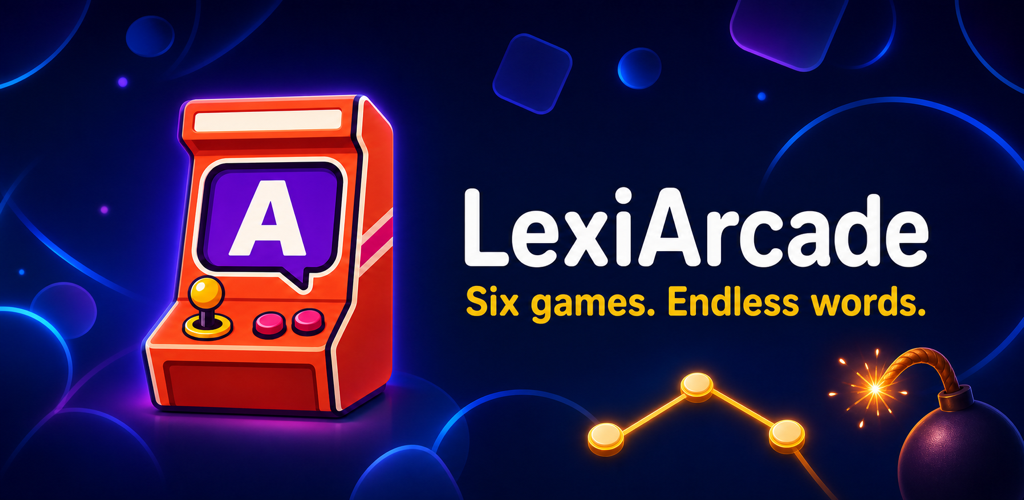
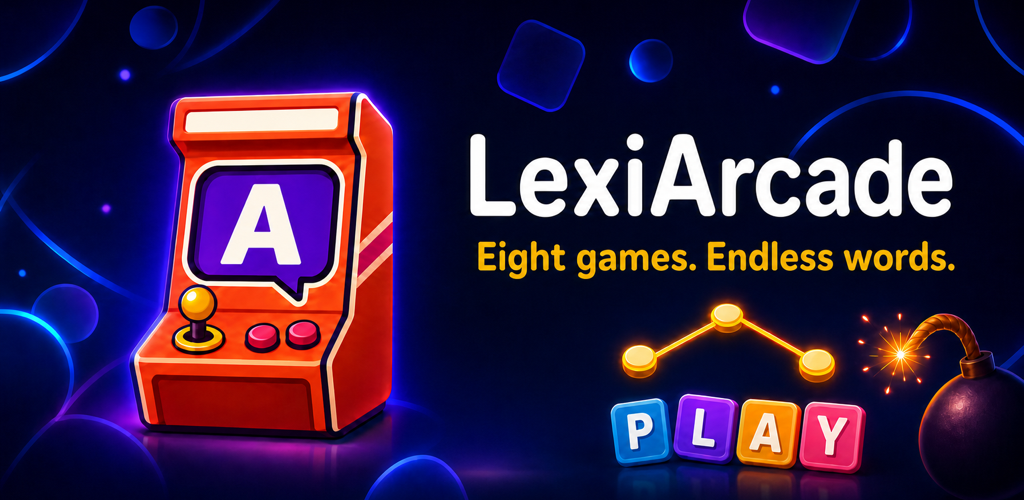
update lexiarcade page

diff --git a/apps/tools/lexiarcade/index.html b/apps/tools/lexiarcade/index.html
@@ -3,14 +3,14 @@
 <head>
   <meta charset="UTF-8" />
   <meta name="viewport" content="width=device-width, initial-scale=1.0" />
-  <title>LexiArcade | Six Endless Word Games on Android and iOS</title>
+  <title>LexiArcade | Eight Endless Word Games on Android and iOS</title>
   <link rel="canonical" href="https://bpzone.info/apps/tools/lexiarcade/" />
   <link rel="icon" type="image/png" href="/assets/apps/tools/lexiarcade/icon-512.png?v=20260722" />
   <link rel="apple-touch-icon" href="/assets/apps/tools/lexiarcade/icon-512.png?v=20260722" />
-  <meta name="description" content="Play six endless word games in LexiArcade: Hidden Trails, Wonder Words, Knot Logic, Word Guess, Word Bomb, and Rush Match. Free on Android and iOS." />
-  <meta name="keywords" content="LexiArcade, endless word games, word search game, crossword game, word guess game, vocabulary puzzle, Hidden Trails, Wonder Words, Knot Logic, Word Bomb, Rush Match, Android word game, iOS word game, BPZone" />
+  <meta name="description" content="Play eight endless word games in LexiArcade, including Hidden Trails, Wonder Words, Picture Pairs, and Wordle. Free on Android and iOS." />
+  <meta name="keywords" content="LexiArcade, endless word games, word search game, crossword game, word guess game, vocabulary puzzle, Wordle, memory matching game, Picture Pairs, Hidden Trails, Wonder Words, Knot Logic, Word Bomb, Rush Match, Android word game, iOS word game, BPZone" />
   <meta property="og:title" content="LexiArcade" />
-  <meta property="og:description" content="Six endless word games, daily rewards, profiles, and global leaderboards in one colorful arcade." />
+  <meta property="og:description" content="Eight endless word games, daily rewards, profiles, and global leaderboards in one colorful arcade." />
   <meta property="og:type" content="website" />
   <meta property="og:url" content="https://bpzone.info/apps/tools/lexiarcade/" />
   <meta property="og:site_name" content="BPZone" />
@@ -22,7 +22,7 @@
   <meta property="og:image:alt" content="LexiArcade app icon" />
   <meta name="twitter:card" content="summary" />
   <meta name="twitter:title" content="LexiArcade" />
-  <meta name="twitter:description" content="Play six endless word games with profiles, rewards, and global leaderboards on Android, iPhone, and iPad." />
+  <meta name="twitter:description" content="Play eight endless word games with profiles, rewards, and global leaderboards on Android, iPhone, and iPad." />
   <meta name="twitter:image" content="https://bpzone.info/assets/apps/tools/lexiarcade/icon-512.png?v=20260724" />
   <meta name="twitter:image:alt" content="LexiArcade app icon" />
 
@@ -37,13 +37,15 @@
       ],
       "applicationCategory": "GameApplication",
       "applicationSubCategory": "Word and puzzle games",
-      "softwareVersion": "2.0",
-      "description": "Play six endless word games: Hidden Trails, Wonder Words, Knot Logic, Word Guess, Word Bomb, and Rush Match. Earn coins and stars, customize a profile, and climb the global leaderboard.",
+      "softwareVersion": "2.2",
+      "dateModified": "2026-08-13",
+      "description": "Play eight endless word games: Hidden Trails, Wonder Words, Knot Logic, Word Guess, Word Bomb, Rush Match, Picture Pairs, and Wordle. Earn coins and stars, customize a profile, and climb the global leaderboard.",
       "image": "https://bpzone.info/assets/apps/tools/lexiarcade/icon-512.png?v=20260722",
       "featureList": [
-        "Six endless word-game modes",
+        "Eight endless word-game modes, including Picture Pairs and Wordle",
         "Coins, stars, hints, and daily gifts",
-        "Player profiles and global leaderboards",
+        "Player profiles, progress tracking, and global leaderboards",
+        "Core games and bundled word content available offline",
         "Native Android, iPhone, and iPad experience"
       ],
       "downloadUrl": [
@@ -350,13 +352,33 @@
       gap: 16px;
     }
 
+    .games-grid,
+    .updates-grid {
+      grid-template-columns: repeat(4, minmax(0, 1fr));
+    }
+
     .mode-card {
+      position: relative;
       min-height: 188px;
       padding: 24px;
       border: 1px solid var(--line);
       border-radius: 8px;
       background: var(--surface);
       box-shadow: 0 12px 30px rgba(20, 36, 58, 0.07);
+    }
+
+    .new-badge {
+      position: absolute;
+      top: 18px;
+      right: 18px;
+      padding: 5px 9px;
+      border-radius: 999px;
+      background: color-mix(in srgb, var(--mode-color, var(--blue)) 14%, var(--surface));
+      color: var(--mode-color, var(--blue));
+      font-size: 0.68rem;
+      font-weight: 950;
+      letter-spacing: 0.08em;
+      text-transform: uppercase;
     }
 
     .mode-number {
@@ -461,6 +483,11 @@
         grid-template-columns: 1fr;
       }
 
+      .games-grid,
+      .updates-grid {
+        grid-template-columns: repeat(2, minmax(0, 1fr));
+      }
+
       h1 {
         font-size: 2.9rem;
       }
@@ -537,6 +564,11 @@
         grid-template-columns: 1fr;
       }
 
+      .games-grid,
+      .updates-grid {
+        grid-template-columns: 1fr;
+      }
+
     }
   </style>
 </head>
@@ -570,11 +602,11 @@
       <div class="container hero-layout">
         <div>
           <img class="app-icon" src="/assets/apps/tools/lexiarcade/icon-512.png?v=20260722" alt="LexiArcade app icon" width="512" height="512" />
-          <p class="eyebrow">Version 2.0 &middot; Word-game collection</p>
-          <h1>Six games. Endless words.</h1>
+          <p class="eyebrow">Version 2.2 &middot; Word-game collection</p>
+          <h1>Eight games. Endless words.</h1>
           <p class="hero-copy">
-            Search, connect, arrange, guess, race the fuse, and match words with clues.
-            Every mode offers quick sessions, growing difficulty, and endless replay.
+            Search, connect, arrange, guess, react, and match words with pictures, clues, and sounds.
+            Every mode offers quick sessions, growing difficulty, and endless replay, with core gameplay available offline.
           </p>
           <div class="store-row">
             <a class="store-link google-play" href="https://play.google.com/store/apps/details?id=com.bpzone.ca.wordvoyage" target="_blank" rel="noopener noreferrer" aria-label="Get LexiArcade on Google Play">
@@ -589,7 +621,7 @@
 
         <div class="hero-art">
           <div class="feature-graphic">
-            <img src="/assets/apps/tools/lexiarcade/feature.png?v=20260722" alt="LexiArcade: six games, endless words" width="1024" height="500" />
+            <img src="/assets/apps/tools/lexiarcade/feature.png?v=20260813" alt="LexiArcade: eight games, endless words" width="1024" height="500" />
           </div>
         </div>
       </div>
@@ -599,10 +631,10 @@
       <div class="container">
         <div class="section-heading">
           <p class="section-kicker">Game modes</p>
-          <h2>Six distinct ways to play with words</h2>
+          <h2>Eight distinct ways to play with words</h2>
           <p class="lead">Choose a relaxed puzzle or a faster challenge, then keep going through endless levels with progressively richer word pools.</p>
         </div>
-        <div class="mode-grid">
+        <div class="mode-grid games-grid">
           <article class="mode-card" style="--mode-color: var(--blue);">
             <img class="game-mode-icon" src="/assets/apps/tools/lexiarcade/game-icons/hidden-trails.svg" alt="" width="64" height="64" />
             <strong>Hidden Trails</strong>
@@ -633,6 +665,18 @@
             <strong>Rush Match</strong>
             <p>Pair rushing words with pictures, definitions, sentences, and sounds.</p>
           </article>
+          <article class="mode-card" style="--mode-color: #7b70f6;">
+            <span class="new-badge">New</span>
+            <img class="game-mode-icon" src="/assets/apps/tools/lexiarcade/game-icons/picture-pairs.svg" alt="" width="64" height="64" />
+            <strong>Picture Pairs</strong>
+            <p>Flip cards and match English words with their pictures.</p>
+          </article>
+          <article class="mode-card" style="--mode-color: #4fae75;">
+            <span class="new-badge">New</span>
+            <img class="game-mode-icon" src="/assets/apps/tools/lexiarcade/game-icons/wordle.svg" alt="" width="64" height="64" />
+            <strong>Wordle</strong>
+            <p>Solve a vocabulary word in six color-coded guesses.</p>
+          </article>
         </div>
       </div>
     </section>
@@ -640,25 +684,30 @@
     <section id="latest" class="section-muted">
       <div class="container">
         <div class="section-heading">
-          <p class="section-kicker">What&rsquo;s new in version 2.0</p>
-          <h2>A complete game-first redesign</h2>
-          <p class="lead">Android and iOS now share the same six-game experience, progression system, and player-focused features.</p>
+          <p class="section-kicker">What&rsquo;s new in version 2.2</p>
+          <h2>More games, faster access, smarter progress</h2>
+          <p class="lead">The latest Android and iOS release expands the arcade and refreshes the experience across all eight games.</p>
         </div>
-        <div class="mode-grid">
+        <div class="mode-grid updates-grid">
           <article class="mode-card" style="--mode-color: var(--blue);">
-            <span class="mode-number">6</span>
-            <strong>Twice as many games</strong>
-            <p>Word Guess, Word Bomb, and Rush Match join the original three puzzle modes.</p>
+            <span class="mode-number">+2</span>
+            <strong>Two new games</strong>
+            <p>Picture Pairs and Wordle bring visual memory matching and six-guess word puzzles to the arcade.</p>
           </article>
           <article class="mode-card" style="--mode-color: var(--gold);">
-            <span class="mode-number">★</span>
-            <strong>Progress and rewards</strong>
-            <p>Earn stars and coins, claim daily gifts, use hints, and build a record across every game.</p>
+            <span class="mode-number">&#9654;</span>
+            <strong>Refreshed home screen</strong>
+            <p>Continue your next level sooner and browse the complete eight-game collection more easily.</p>
           </article>
           <article class="mode-card" style="--mode-color: var(--cyan);">
-            <span class="mode-number">#</span>
-            <strong>Profiles and leaderboards</strong>
-            <p>Choose a built-in avatar, track all six games, and compare scores on the global leaderboard.</p>
+            <span class="mode-number">8</span>
+            <strong>Progress everywhere</strong>
+            <p>Profiles, progress tracking, leaderboards, and cloud syncing now cover every game.</p>
+          </article>
+          <article class="mode-card" style="--mode-color: #28ad84;">
+            <span class="mode-number">&#10003;</span>
+            <strong>Smoother play</strong>
+            <p>Clearer Wordle controls join general stability, syncing, and performance improvements.</p>
           </article>
         </div>
       </div>
@@ -686,7 +735,7 @@
         <div class="download-panel">
           <div>
             <h2>Pick a game and start playing</h2>
-            <p>Download LexiArcade 2.0 free on Google Play or the App Store.</p>
+            <p>Download LexiArcade 2.2 free on Google Play or the App Store.</p>
           </div>
           <div class="download-actions">
             <a class="store-link google-play" href="https://play.google.com/store/apps/details?id=com.bpzone.ca.wordvoyage" target="_blank" rel="noopener noreferrer" aria-label="Get LexiArcade on Google Play">
